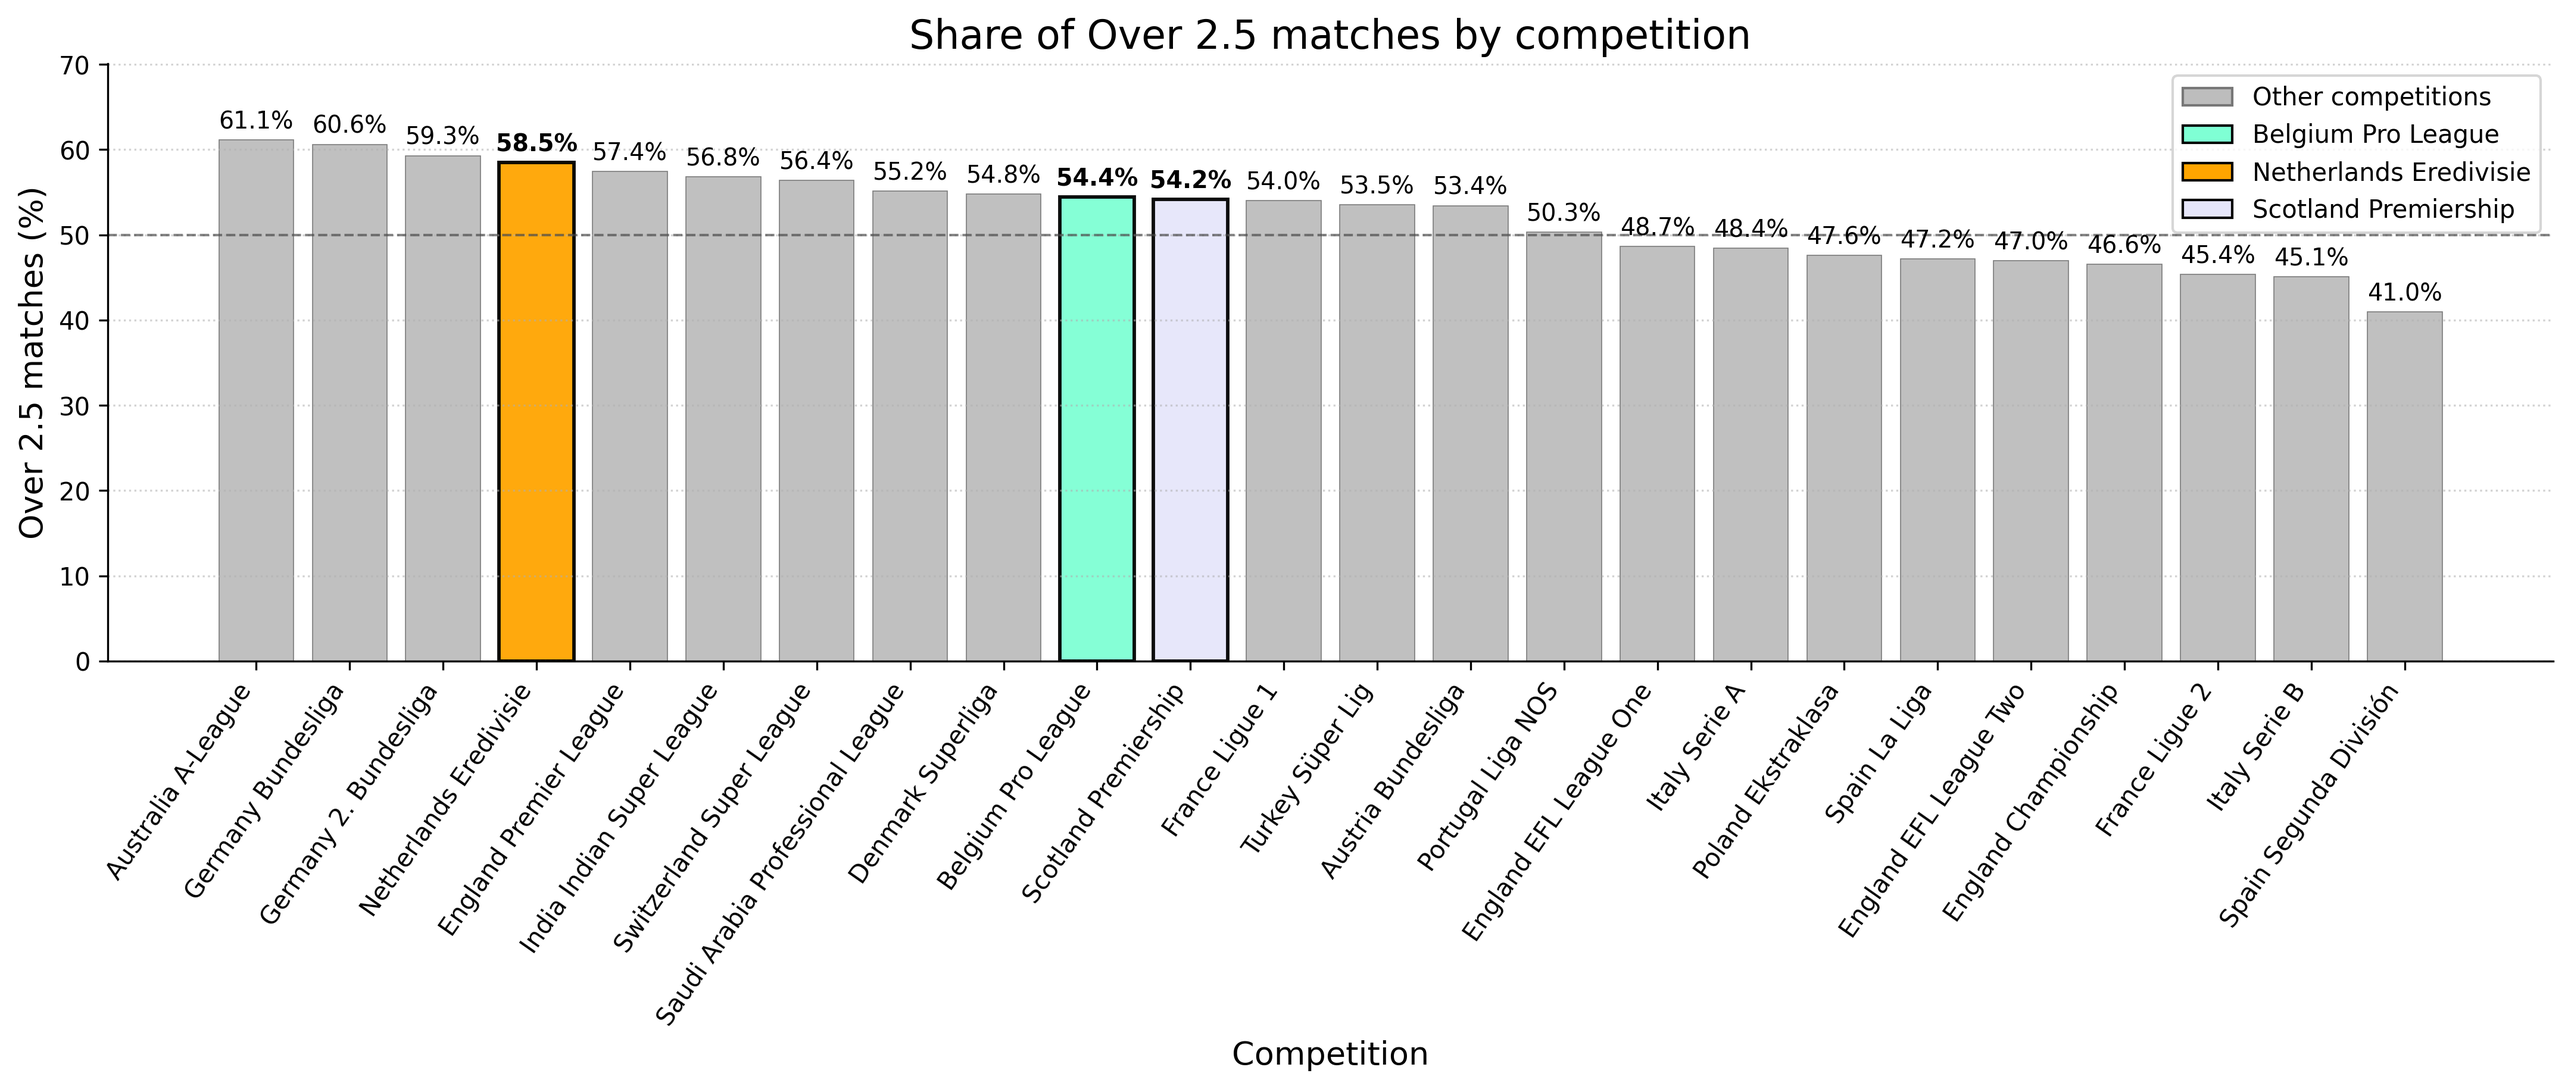
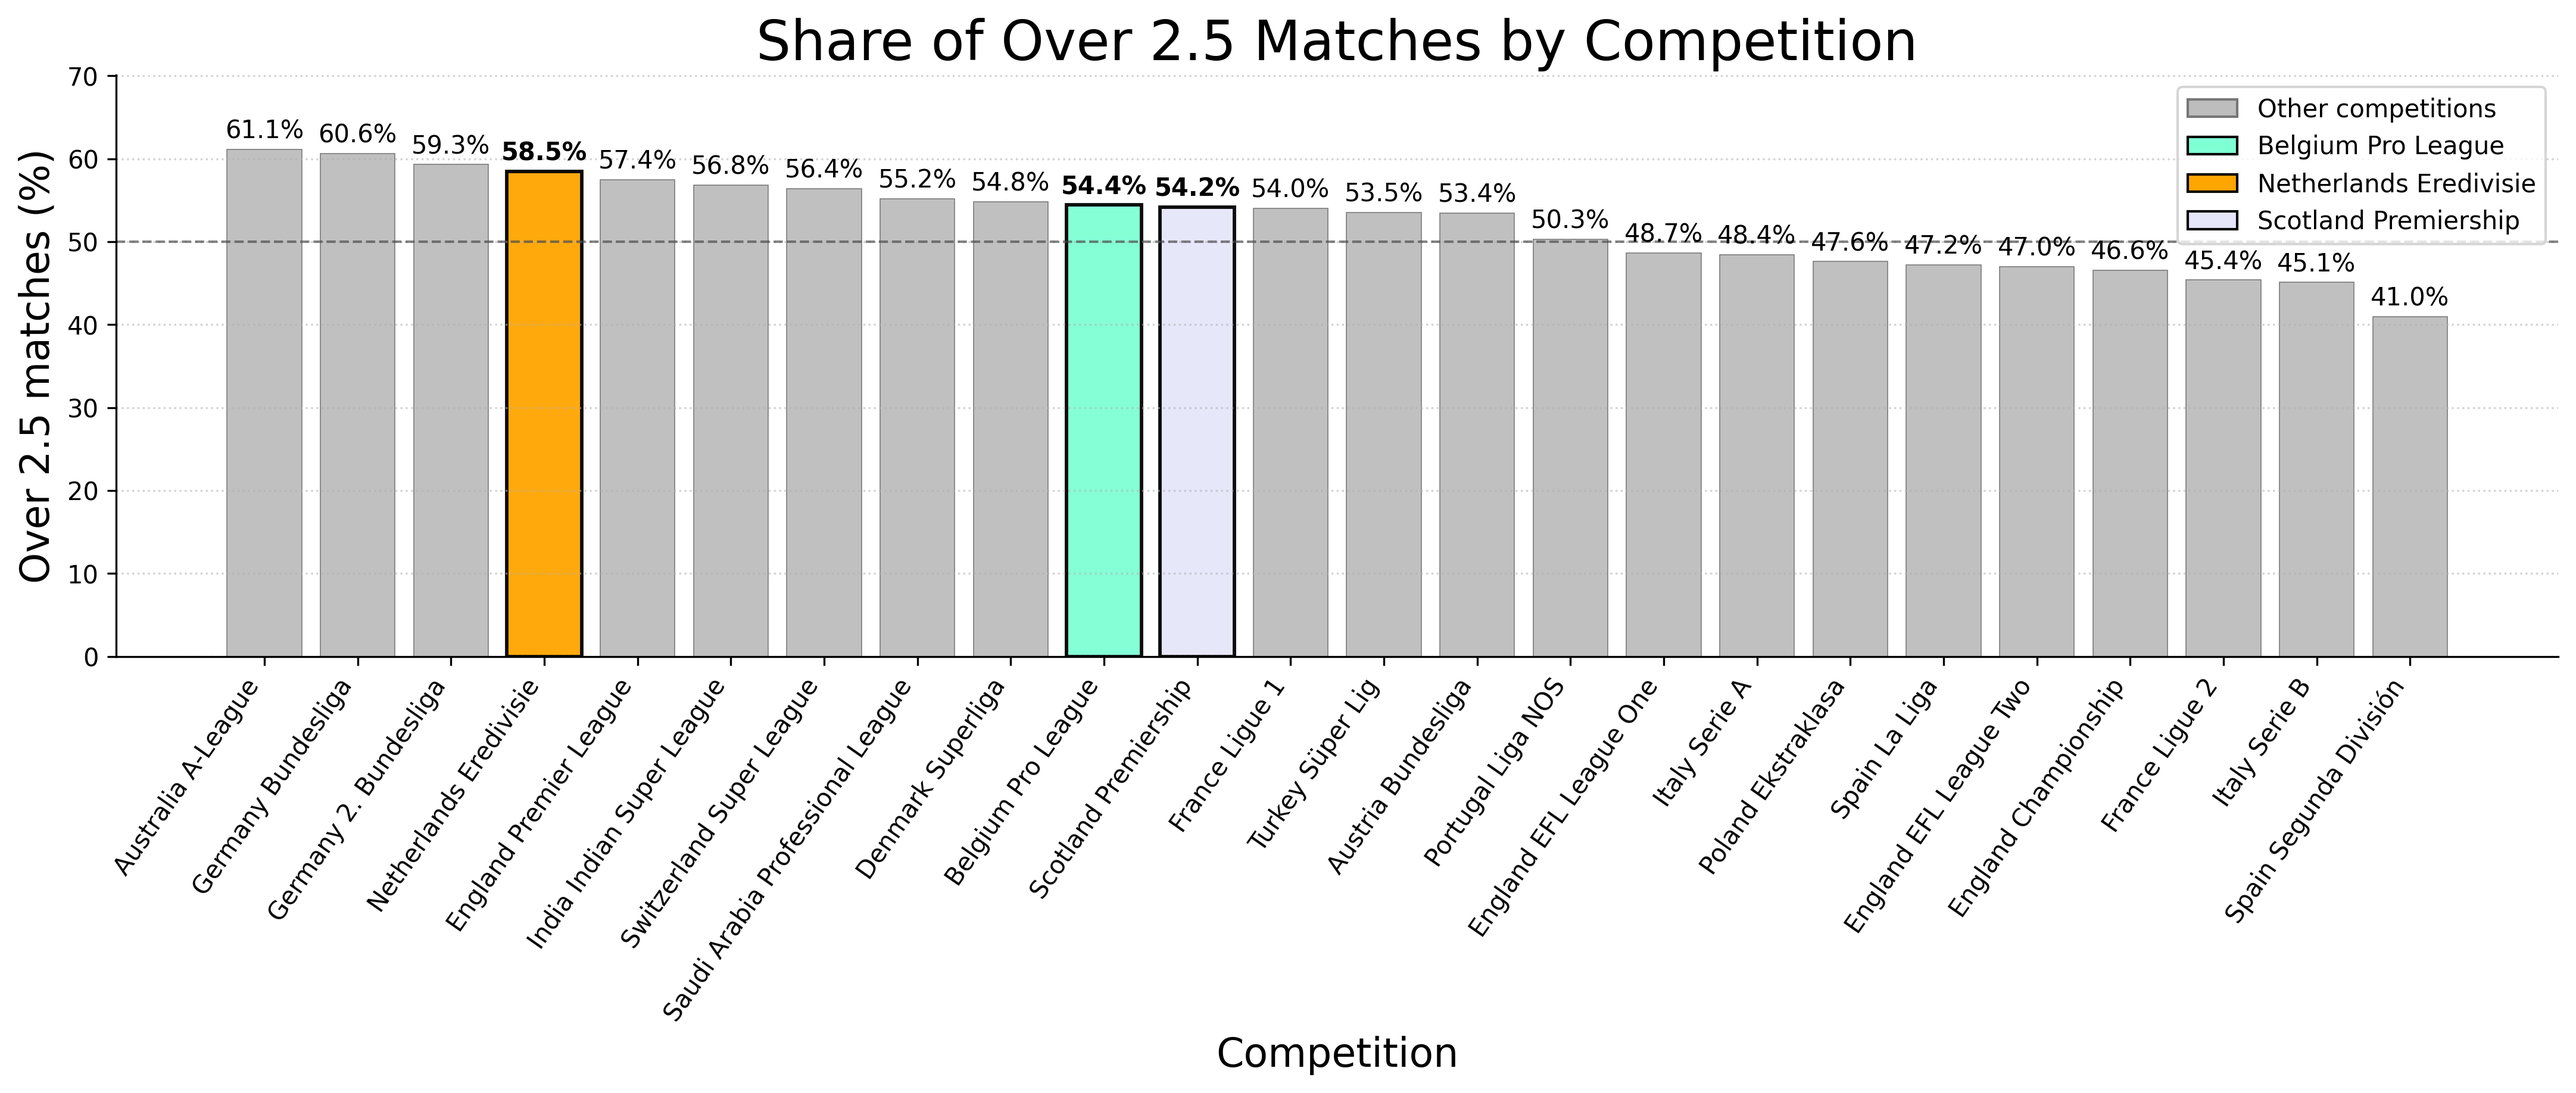
docs: polish atta analysis

diff --git a/scripts/tools/analysis_atta_uo_distribution.py b/scripts/tools/analysis_atta_uo_distribution.py
@@ -91,13 +91,13 @@ def main() -> None:
         alpha=0.65,
     )
 
-    ax.set_title("Share of Over 2.5 matches by competition", fontsize=16)
-    ax.set_ylabel("Over 2.5 matches (%)", fontsize=13)
-    ax.set_xlabel("Competition", fontsize=13)
+    ax.set_title("Share of Over 2.5 Matches by Competition", fontsize=22)
+    ax.set_ylabel("Over 2.5 matches (%)", fontsize=16)
+    ax.set_xlabel("Competition", fontsize=16)
     ax.set_ylim(0, max(values) + 9)
 
     ax.set_xticks(range(len(records)))
-    ax.set_xticklabels(comps, rotation=55, ha="right")
+    ax.set_xticklabels(comps, rotation=55, ha="right", fontsize=10)
 
     ax.grid(axis="y", linestyle=":", alpha=0.55)
     ax.spines["top"].set_visible(False)
@@ -113,7 +113,7 @@ def main() -> None:
             label,
             ha="center",
             va="bottom",
-            fontsize=9.5,
+            fontsize=10,
             rotation=0,
             fontweight=fontweight,
         )
